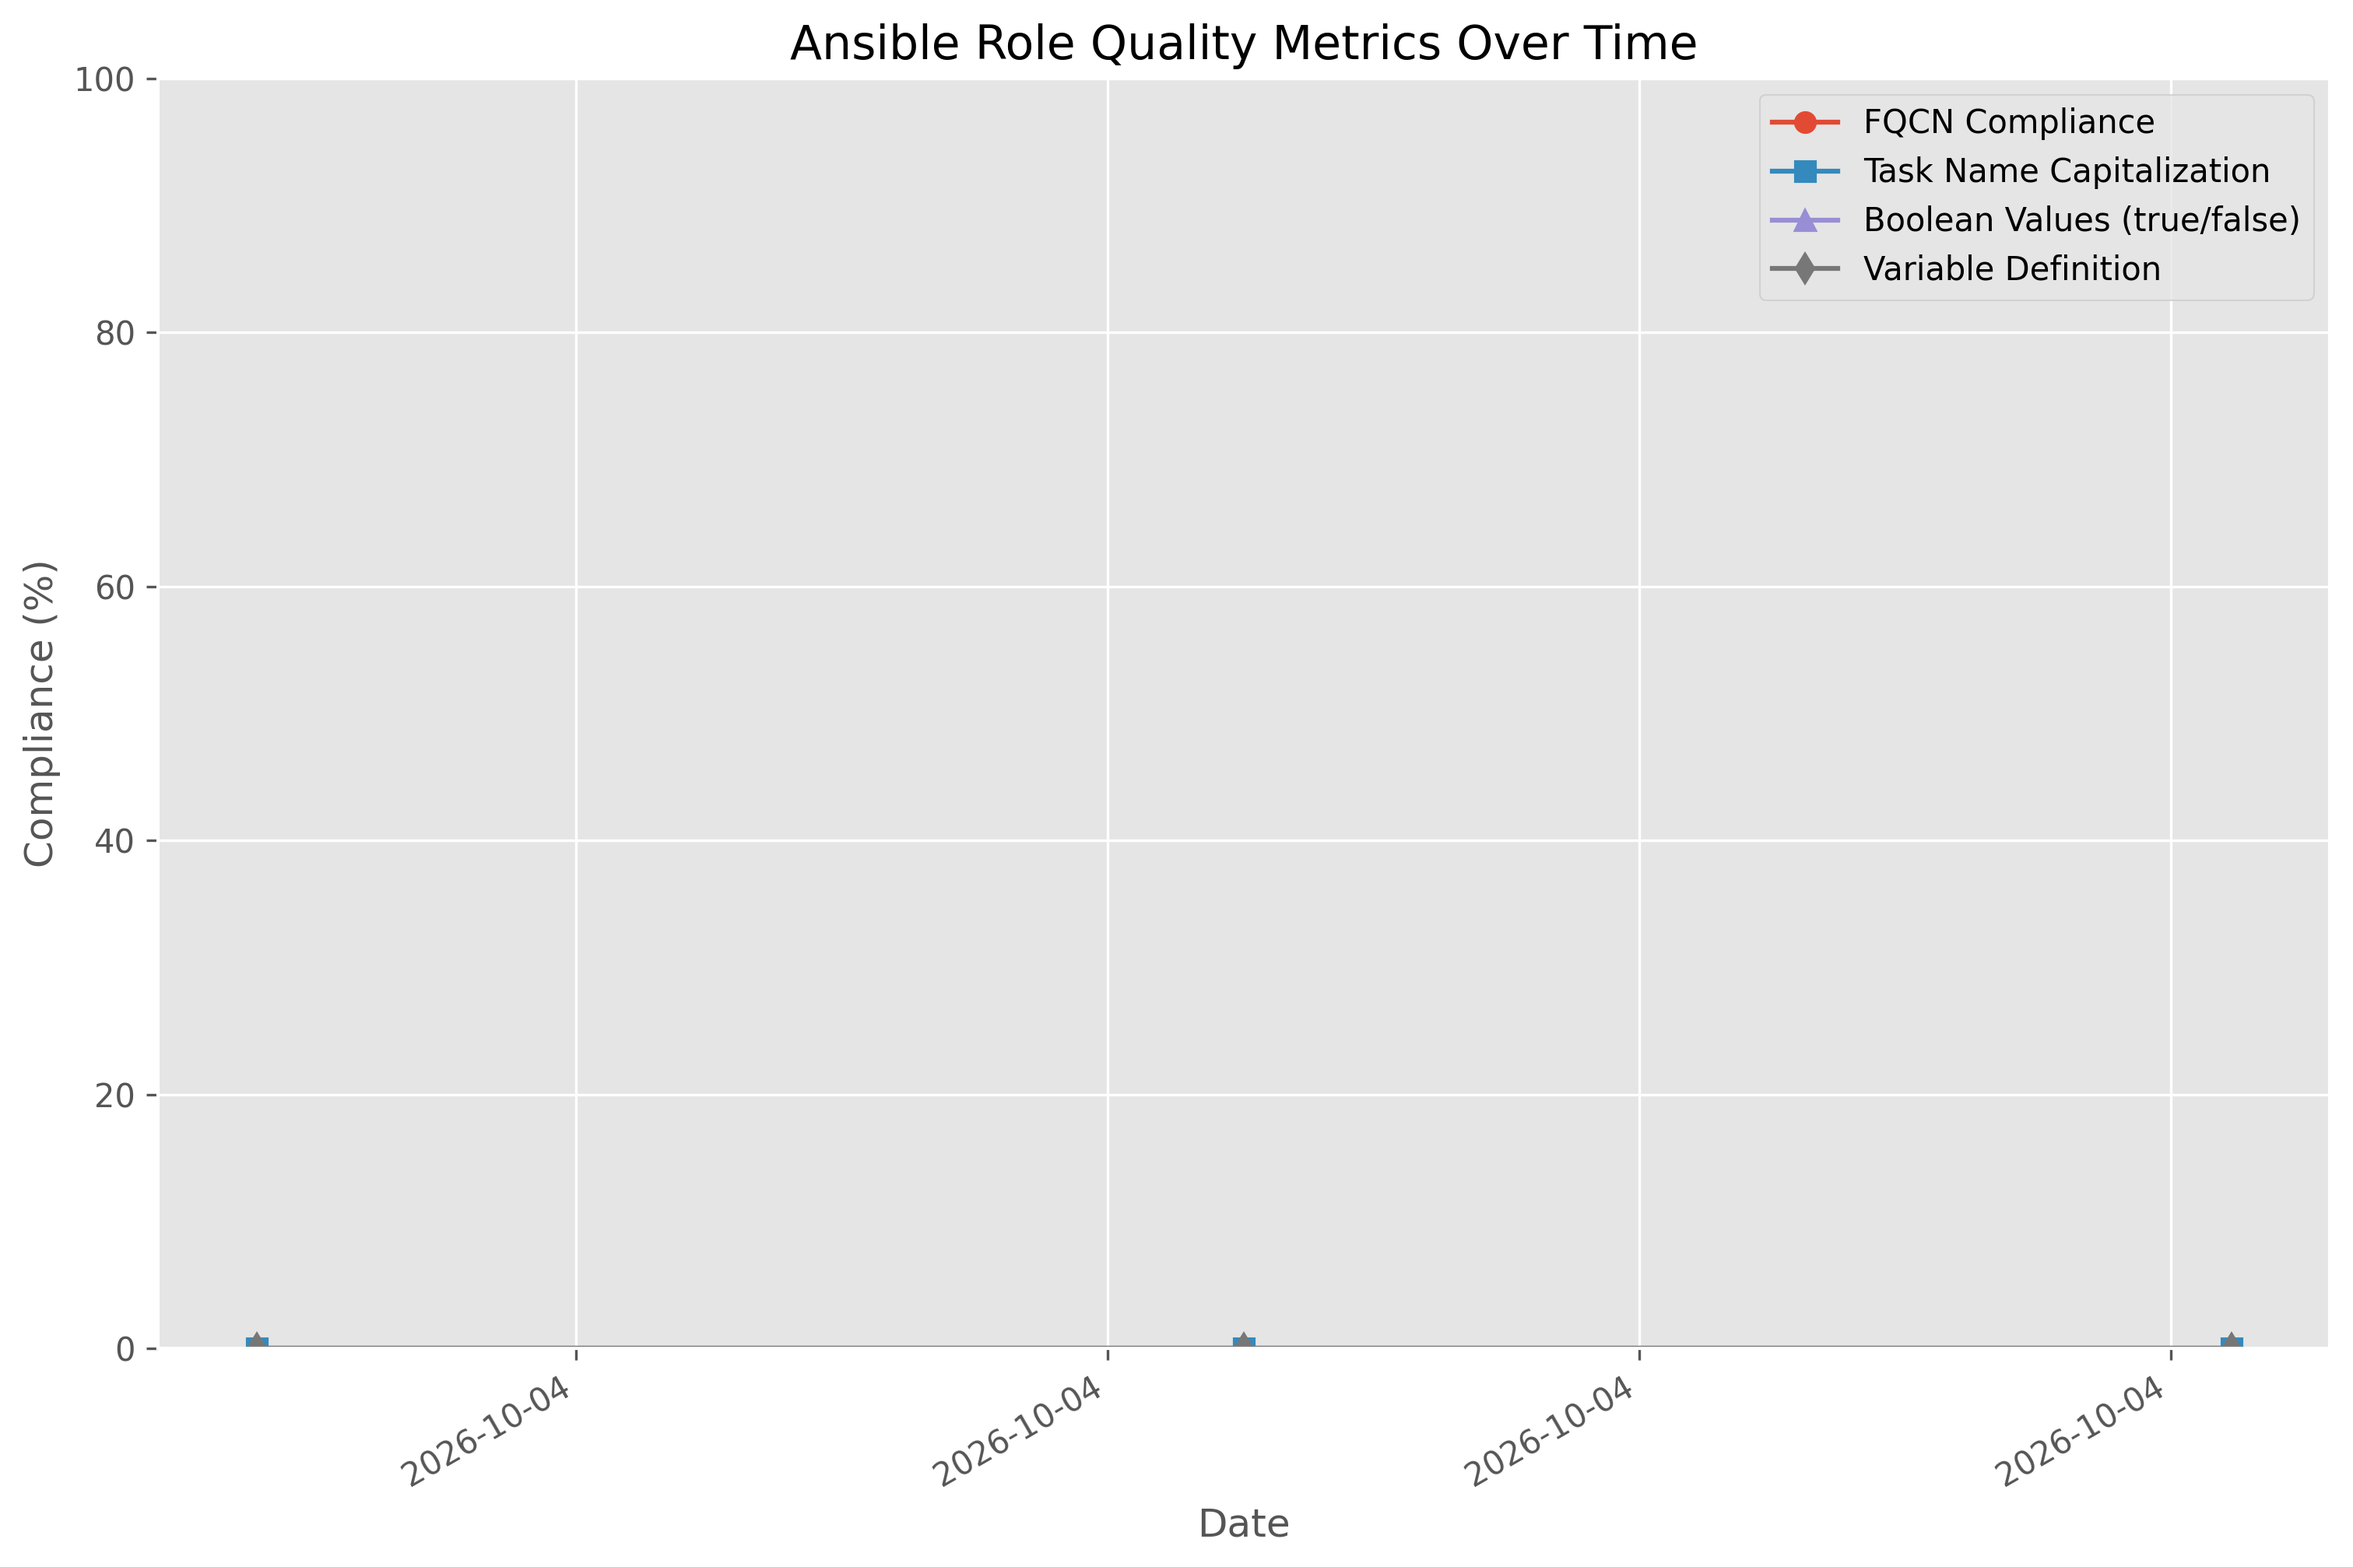
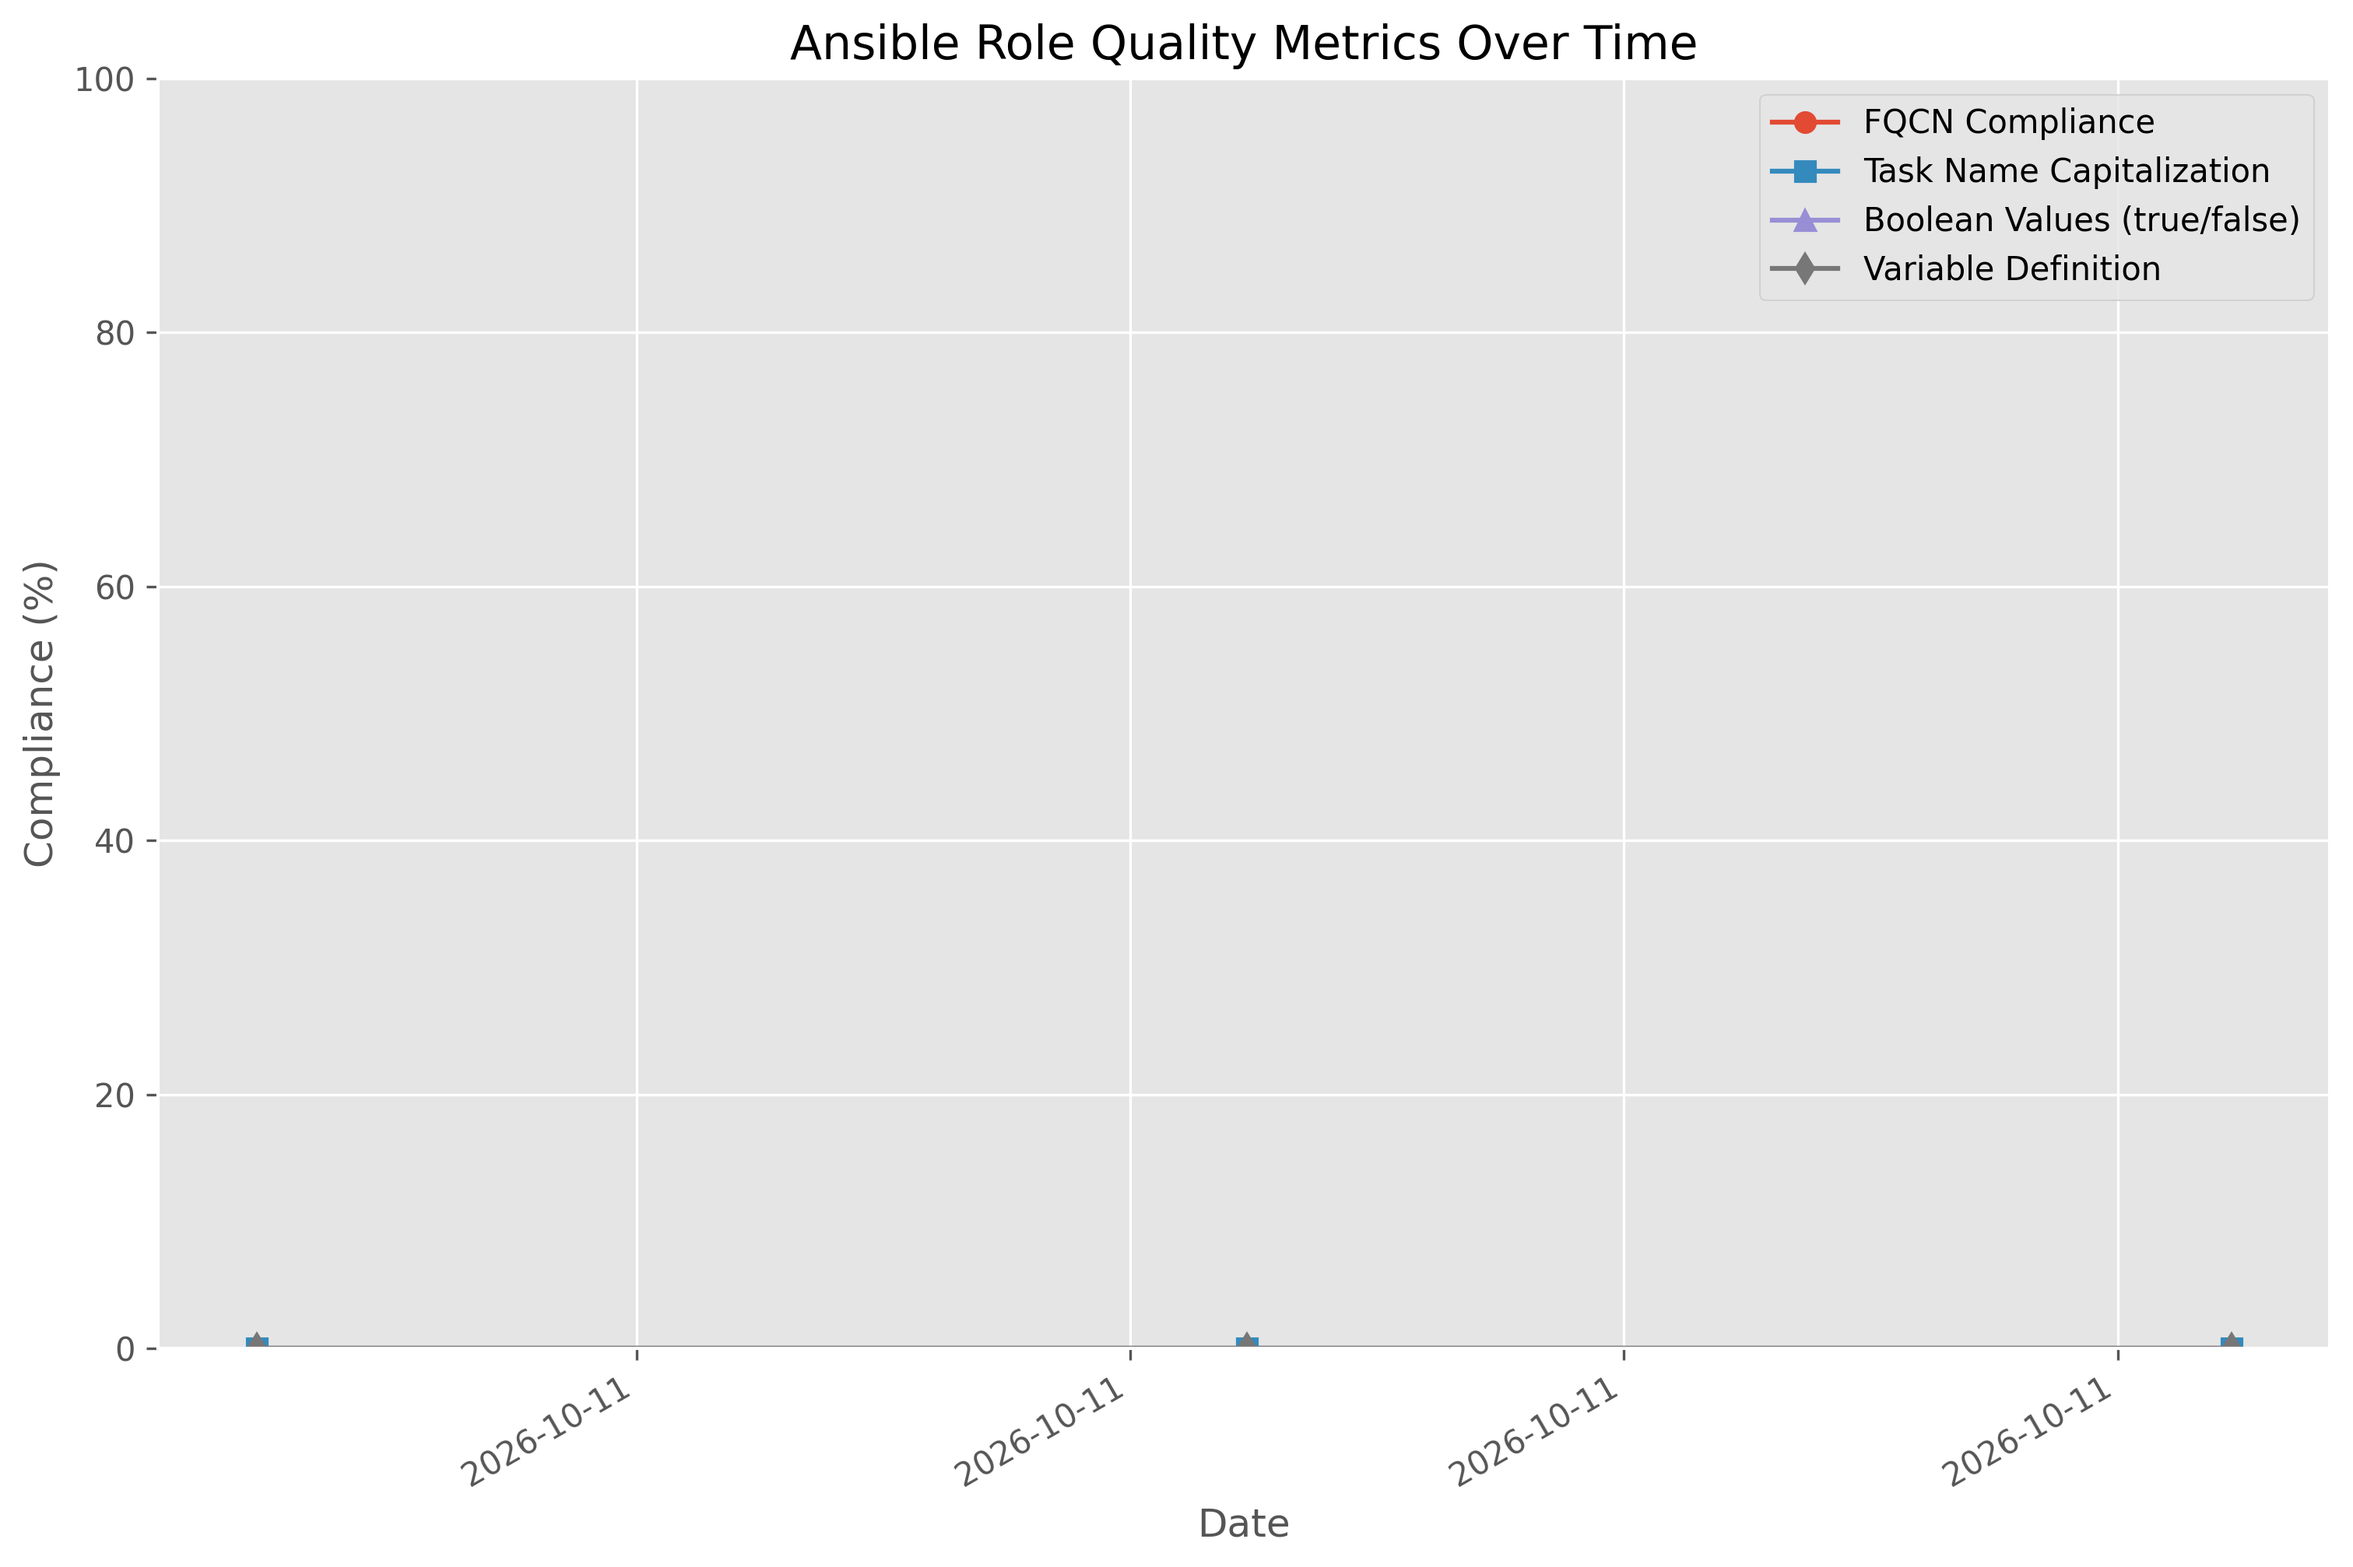
Update metrics (automated) 86381e575e3cb567ae7d61f2b827ec3665fe9a28

diff --git a/metrics/metrics_summary.md b/metrics/metrics_summary.md
@@ -1,6 +1,6 @@
 # Chef to Ansible Conversion Metrics
 
-Last updated: 2026-10-04 04:35:09
+Last updated: 2026-10-11 04:19:20
 
 ## Latest Compliance Metrics
 
